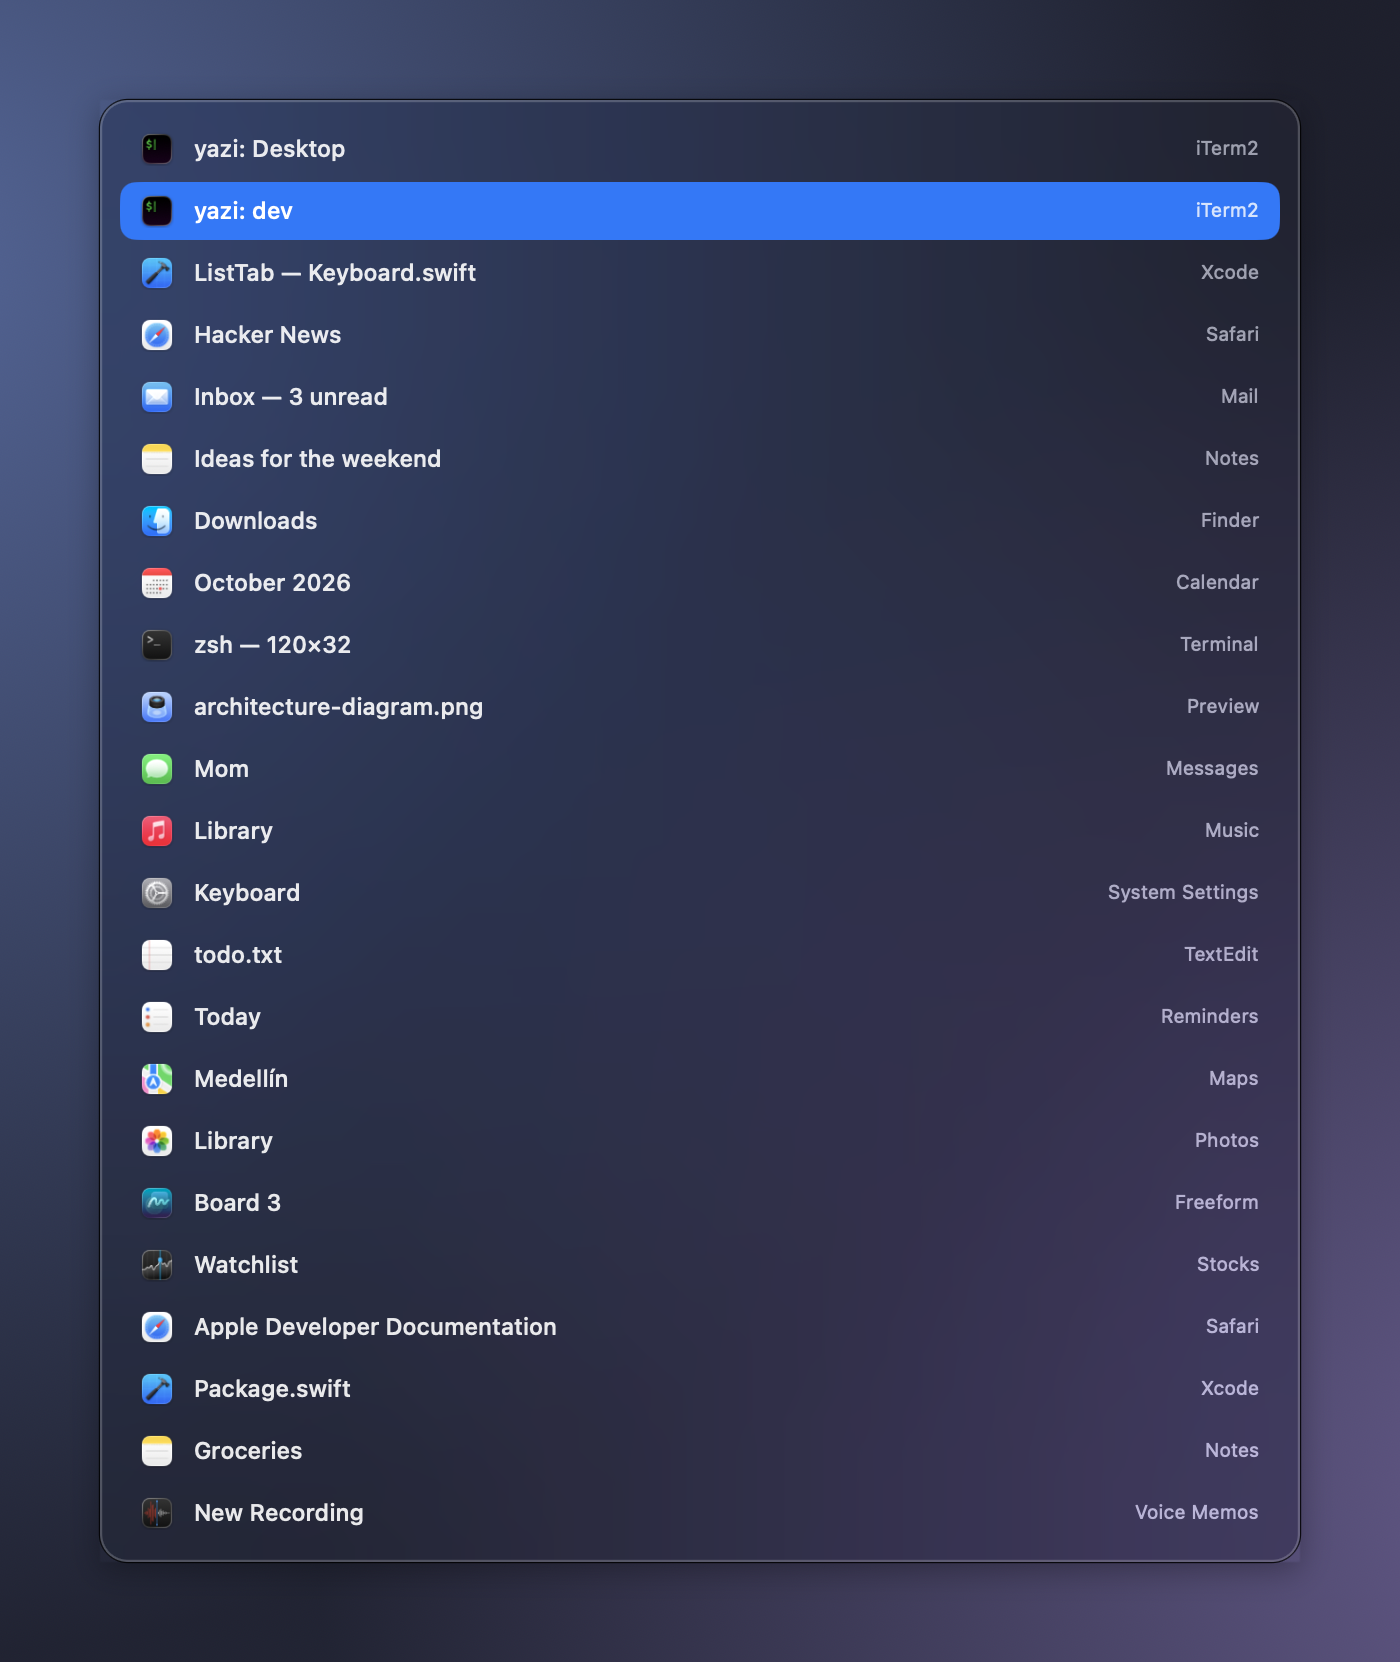
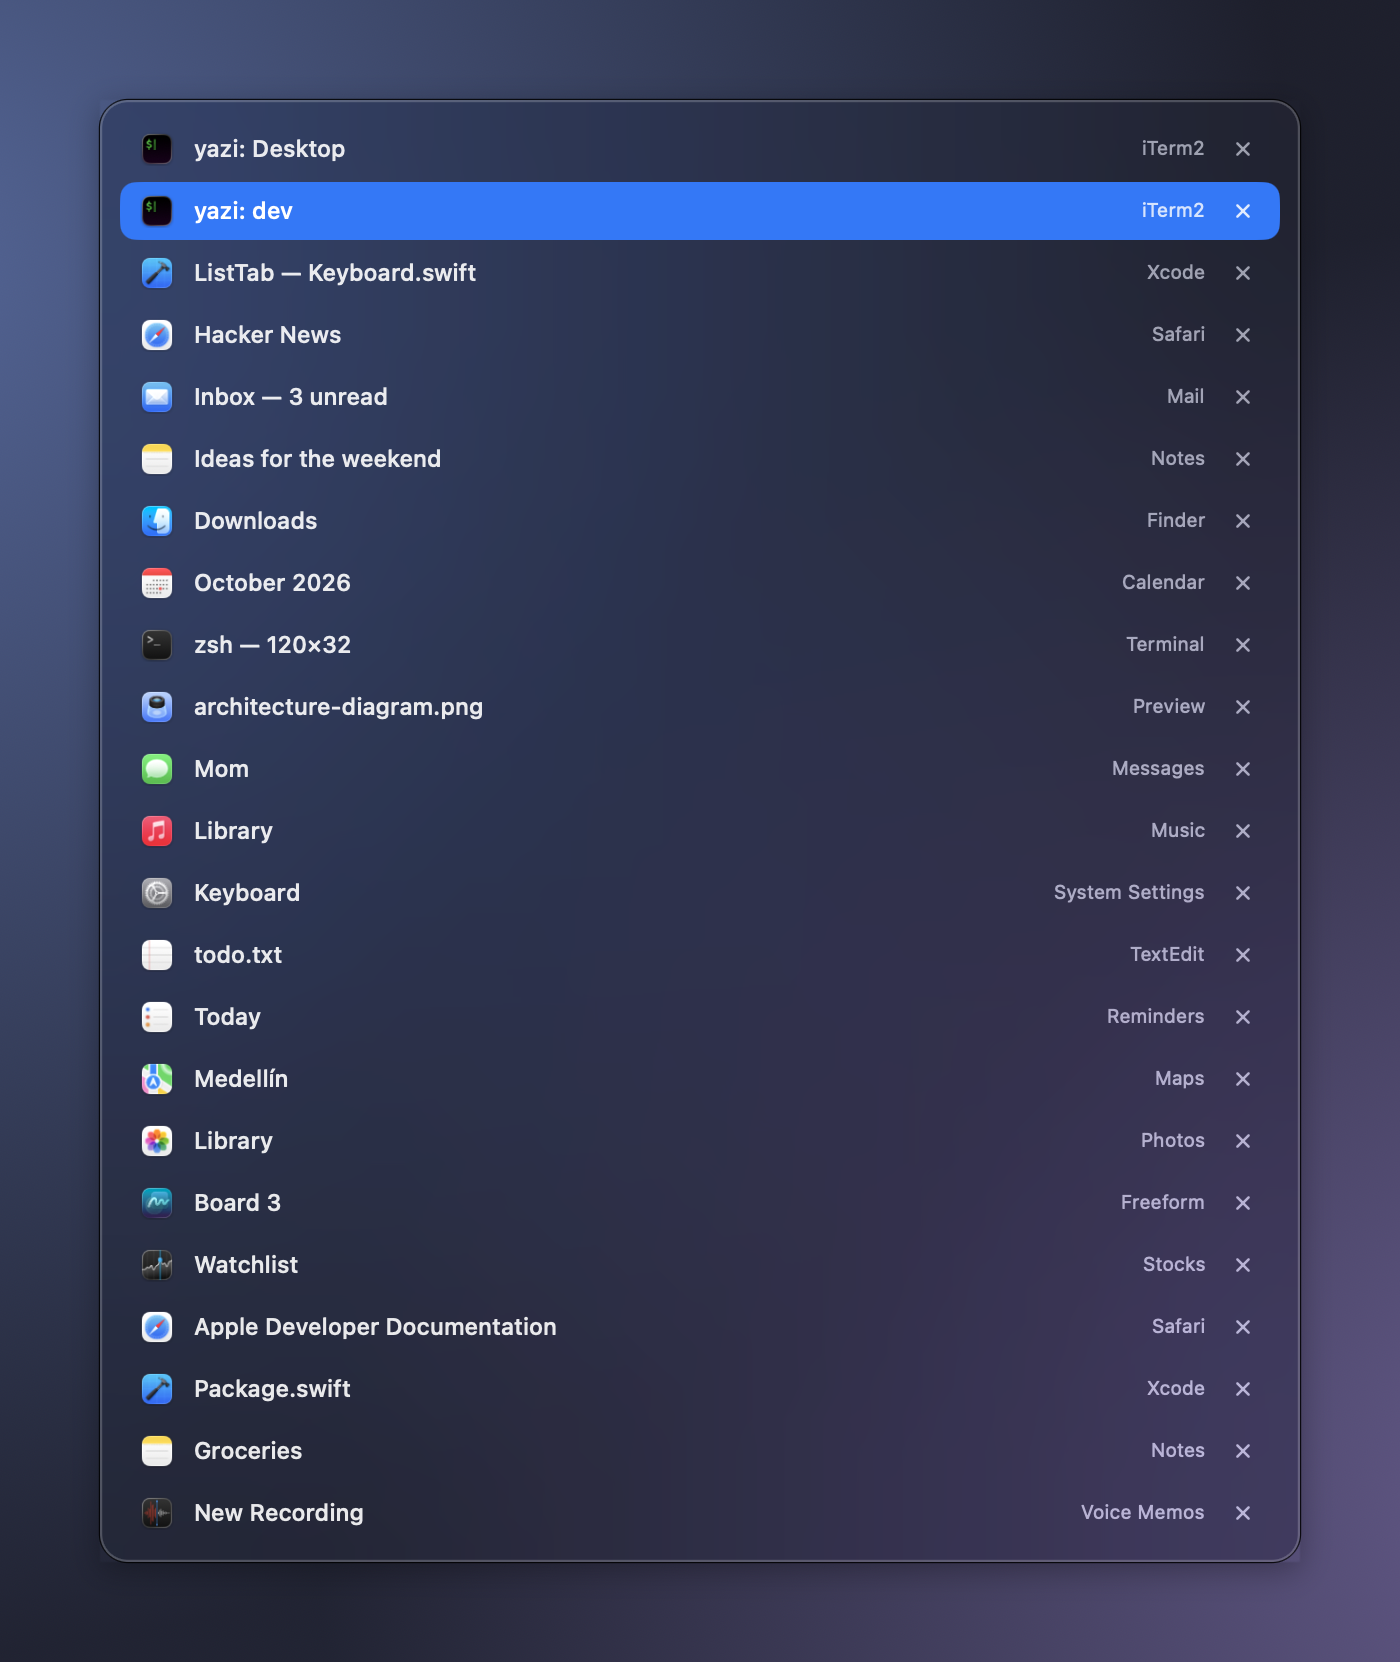
Add a close button to every row (✕ closes the window, ⌥-click or Q quits the app)
- Row layout: icon · window title · app · ✕. Clicking works although the
  panel never activates the app (first-mouse hosting view).
- W closes the selected window and Q quits its app from the keyboard.
- The row disappears at once and the list re-reads the real state 0.4 s
  later, so windows that refuse to close (unsaved changes) come back.
- --selftest-close closes real TextEdit windows through the same code path.
- The ⌘-release watchdog is skipped in --demo (nothing is held there).

diff --git a/Sources/ListTab/PanelView.swift b/Sources/ListTab/PanelView.swift
@@ -6,6 +6,8 @@ final class ListModel: ObservableObject {
     @Published var selected = 0
     /// Alto de fila: se encoge para que quepan TODAS las ventanas sin scroll.
     @Published var rowHeight: CGFloat = 36
+    /// (indice de fila, cerrar la app entera). Lo asigna el Switcher.
+    var onClose: ((Int, Bool) -> Void)?
 }
 
 struct ListView: View {
@@ -16,7 +18,9 @@ struct ListView: View {
             ScrollView(showsIndicators: false) {
                 VStack(spacing: SwitcherPanel.spacing) {
                     ForEach(Array(model.items.enumerated()), id: \.offset) { i, w in
-                        Row(window: w, selected: i == model.selected, height: model.rowHeight).id(i)
+                        Row(window: w, selected: i == model.selected, height: model.rowHeight) { quitApp in
+                            model.onClose?(i, quitApp)
+                        }.id(i)
                     }
                 }
                 .padding(10)
@@ -30,6 +34,7 @@ private struct Row: View {
     let window: SwitchWindow
     let selected: Bool
     let height: CGFloat
+    let onClose: (Bool) -> Void   // true = cerrar la app entera
 
     var body: some View {
         let icon = max(height - 12, 12)
@@ -45,12 +50,41 @@ private struct Row: View {
                 .font(.system(size: max(font - 2, 9)))
                 .foregroundStyle(selected ? Color.white.opacity(0.8) : Color.secondary)
                 .lineLimit(1)
+            CloseButton(size: min(max(height - 12, 12), 22), selected: selected) {
+                // ⌥ + clic = salir de la app; clic solo = cerrar esta ventana
+                onClose(NSEvent.modifierFlags.contains(.option))
+            }
         }
         .padding(.horizontal, 10)
         .frame(height: height)
         .foregroundStyle(selected ? Color.white : Color.primary)
         .background(RoundedRectangle(cornerRadius: 8).fill(selected ? Color.accentColor : Color.clear))
     }
+}
+
+private struct CloseButton: View {
+    let size: CGFloat
+    let selected: Bool
+    let action: () -> Void
+    @State private var hover = false
+
+    var body: some View {
+        Button(action: action) {
+            Image(systemName: "xmark")
+                .font(.system(size: size * 0.5, weight: .bold))
+                .frame(width: size, height: size)
+                .foregroundStyle(hover ? Color.white : (selected ? Color.white.opacity(0.85) : Color.secondary))
+                .background(Circle().fill(hover ? Color.red.opacity(0.9) : Color.clear))
+        }
+        .buttonStyle(.plain)
+        .onHover { hover = $0 }
+        .help("Cerrar ventana (⌥ clic: cerrar la app)")
+    }
+}
+
+/// El panel no activa la app: sin esto el primer clic se pierde en vez de llegar al boton.
+private final class FirstMouseHostingView<Content: View>: NSHostingView<Content> {
+    override func acceptsFirstMouse(for event: NSEvent?) -> Bool { true }
 }
 
 final class SwitcherPanel {
@@ -82,7 +116,7 @@ final class SwitcherPanel {
         fx.layer?.cornerRadius = 14
         fx.layer?.masksToBounds = true
 
-        let host = NSHostingView(rootView: ListView(model: model))
+        let host = FirstMouseHostingView(rootView: ListView(model: model))
         host.translatesAutoresizingMaskIntoConstraints = false
         fx.addSubview(host)
         NSLayoutConstraint.activate([

diff --git a/Sources/ListTab/Switcher.swift b/Sources/ListTab/Switcher.swift
@@ -5,6 +5,10 @@ final class Switcher {
     let model = ListModel()
     private lazy var panel = SwitcherPanel(model: model)
     var panelFrame: NSRect { panel.frame }
+
+    init() {
+        model.onClose = { [weak self] index, quitApp in self?.close(at: index, quitApp: quitApp) }
+    }
     private(set) var active = false
     private var showWork: DispatchWorkItem?
     private var releaseWatch: Timer?
@@ -28,8 +32,10 @@ final class Switcher {
 
         // Red de seguridad: si el evento "soltar ⌘" se pierde (toque muy rapido, evento sintetico),
         // el panel quedaria abierto para siempre. Se consulta el estado real del teclado.
-        releaseWatch = Timer.scheduledTimer(withTimeInterval: 0.04, repeats: true) { [weak self] _ in
-            if !CGEventSource.flagsState(.combinedSessionState).contains(.maskCommand) { self?.commit() }
+        if demo == nil {   // en --demo no hay ⌘ pulsada: el vigilante cerraria el panel al instante
+            releaseWatch = Timer.scheduledTimer(withTimeInterval: 0.04, repeats: true) { [weak self] _ in
+                if !CGEventSource.flagsState(.combinedSessionState).contains(.maskCommand) { self?.commit() }
+            }
         }
     }
 
@@ -48,6 +54,42 @@ final class Switcher {
     }
 
     func cancel() { end() }
+
+    func closeSelected(quitApp: Bool) { close(at: model.selected, quitApp: quitApp) }
+
+    /// Cierra la ventana de la fila `index` (o toda su app). La fila desaparece de inmediato y, un
+    /// instante despues, se relee el estado real: si la app no la dejo cerrar (¿guardar cambios?), reaparece.
+    func close(at index: Int, quitApp: Bool) {
+        guard active, model.items.indices.contains(index) else { return }
+        let target = model.items[index]
+        let keepID = model.items.indices.contains(model.selected) ? model.items[model.selected].windowID : nil
+        Log.write("close \(quitApp ? "app" : "window") \(target.windowID)[\(target.appName):\(target.title)]")
+
+        if quitApp {
+            NSRunningApplication(processIdentifier: target.pid)?.terminate()
+            model.items.removeAll { $0.pid == target.pid }
+        } else {
+            Windows.close(target)
+            model.items.remove(at: index)
+        }
+        reselect(keeping: keepID, fallback: index)
+        DispatchQueue.main.asyncAfter(deadline: .now() + 0.4) { [weak self] in self?.refresh() }
+    }
+
+    /// Relee las ventanas reales manteniendo la seleccion sobre la misma ventana.
+    private func refresh() {
+        guard active else { return }
+        let keepID = model.items.indices.contains(model.selected) ? model.items[model.selected].windowID : nil
+        model.items = Windows.list()
+        reselect(keeping: keepID, fallback: model.selected)
+    }
+
+    private func reselect(keeping id: CGWindowID?, fallback: Int) {
+        guard !model.items.isEmpty else { cancel(); return }
+        if let id, let i = model.items.firstIndex(where: { $0.windowID == id }) { model.selected = i }
+        else { model.selected = min(max(fallback, 0), model.items.count - 1) }
+        panel.show(count: model.items.count)   // reajusta alto y tamano de fila
+    }
 
     private func end() {
         active = false

diff --git a/Sources/ListTab/main.swift b/Sources/ListTab/main.swift
@@ -19,6 +19,24 @@ if args.contains("--login-on") || args.contains("--login-off") {
     exit(0)
 }
 
+// --selftest-close: cierra de verdad ventanas de TextEdit con el mismo codigo de ListTab.
+// Prepara antes 2 documentos:  osascript -e 'tell application "TextEdit" to make new document' (x2)
+if args.contains("--selftest-close") {
+    guard AXIsProcessTrusted() else { print("Sin permiso de Accesibilidad"); exit(1) }
+    func pump(_ s: Double) { RunLoop.main.run(until: Date().addingTimeInterval(s)) }
+    let editPID = NSRunningApplication.runningApplications(withBundleIdentifier: "com.apple.TextEdit").first?.processIdentifier
+    func edits() -> [SwitchWindow] { Windows.list().filter { $0.pid == editPID } }
+    let before = edits()
+    guard before.count >= 2 else { print("hacen falta 2 ventanas de TextEdit (hay \(before.count))"); exit(2) }
+    Windows.close(before[0]); pump(1.0)
+    let afterOne = edits().count
+    print("cerrar ventana: \(before.count) -> \(afterOne)  \(afterOne == before.count - 1 ? "OK" : "FALLA")")
+    NSRunningApplication(processIdentifier: before[0].pid)?.terminate(); pump(2.0)
+    let afterQuit = edits().count
+    print("cerrar app:     \(afterOne) -> \(afterQuit)  \(afterQuit == 0 ? "OK" : "FALLA")")
+    exit(afterOne == before.count - 1 && afterQuit == 0 ? 0 : 1)
+}
+
 // --selftest: reproduce el bug del MRU con ventanas reales usando el MISMO camino de ListTab
 // (Windows.focus). Requiere 2 ventanas de iTerm con titulo "yazi…" y una de Google Chrome.
 // Secuencia: B -> Chrome -> A  =>  el orden debe quedar A, Chrome, B (no A, B, Chrome).

diff --git a/Sources/ListTab/Windows.swift b/Sources/ListTab/Windows.swift
@@ -60,6 +60,15 @@ enum Windows {
         }.map { $0.w }
     }
 
+    /// Cierra la ventana pulsando su boton de cerrar (como el circulo rojo). Si la app pide guardar,
+    /// la ventana sigue ahi y el siguiente refresco de la lista la vuelve a mostrar.
+    static func close(_ w: SwitchWindow) {
+        var ref: CFTypeRef?
+        guard AXUIElementCopyAttributeValue(w.element, kAXCloseButtonAttribute as CFString, &ref) == .success,
+              let ref else { return }
+        AXUIElementPerformAction(ref as! AXUIElement, kAXPressAction as CFString)
+    }
+
     static func focus(_ w: SwitchWindow) {
         Recency.shared.touch(w.windowID)   // registrar ya: el AXObserver puede tardar unos ms
         if w.minimized {

diff --git a/Sources/ListTab/Keyboard.swift b/Sources/ListTab/Keyboard.swift
@@ -69,6 +69,8 @@ final class Keyboard {
             case kVK_UpArrow:    switcher.step(-1)
             case kVK_Escape:     switcher.cancel()
             case kVK_Return, kVK_ANSI_KeypadEnter: switcher.commit()
+            case kVK_ANSI_W:     switcher.closeSelected(quitApp: false)   // cerrar la ventana
+            case kVK_ANSI_Q:     switcher.closeSelected(quitApp: true)    // cerrar la app entera
             default: break
             }
         }

diff --git a/README.md b/README.md
@@ -23,6 +23,10 @@ a paid tier. I only wanted the list. So I built exactly that: nothing more.
 - **⌘Tab / ⌘⇧Tab** opens a list of your windows: **icon · full title · app**, most recent first.
 - Recency is tracked **per window**, not per app: ⌘Tab toggles between your last two *windows* even if two of them belong to the same app (iTerm A → Chrome → iTerm A, never dragging iTerm B in between).
 - **↑ ↓** to move, **release ⌘** or **Return** to jump, **Esc** to cancel.
+- **Close from the list.** Each row ends with a **✕**: click it to close that window (same as the red button).
+  **⌥-click** — or press **Q** — quits the whole app; **W** closes the selected window from the keyboard.
+  The row disappears at once and the list re-reads reality a moment later, so a window that asks to save
+  its changes simply stays (the app shows its usual prompt).
 - **No scrolling, ever** (almost). The rows shrink as needed so *every* window is visible. A list that hides
   3 of your 10 windows behind a scrollbar is lying to you.
 - Includes minimized windows. Quick ⌘Tab taps switch instantly with no flicker (the panel appears after 100 ms).
@@ -75,7 +79,7 @@ That setting **survives a crash**. If the app is force-killed and ⌘Tab stops w
 - It relies on two private macOS functions (`_AXUIElementGetWindow`, `CGSSetSymbolicHotKeyEnabled`).
   They have been stable for years, but Apple can break them in any release.
 - Tested on macOS 26 (Tahoe), Apple Silicon only. Intel and macOS 14–15 are untested.
-- No mouse, search, or close/quit from the list yet.
+- No search or mouse-hover selection yet; rows can't be clicked to jump (use the keyboard).
 
 ## How it works
 
